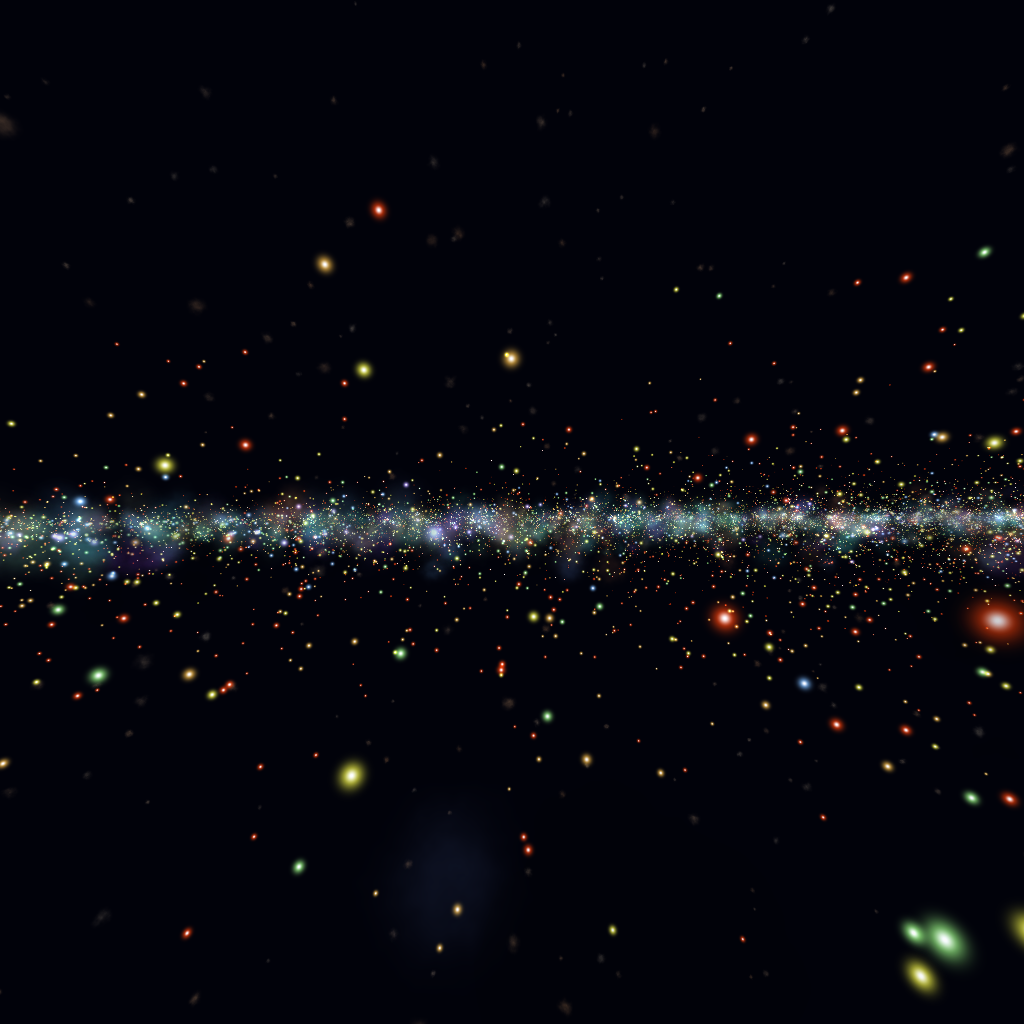
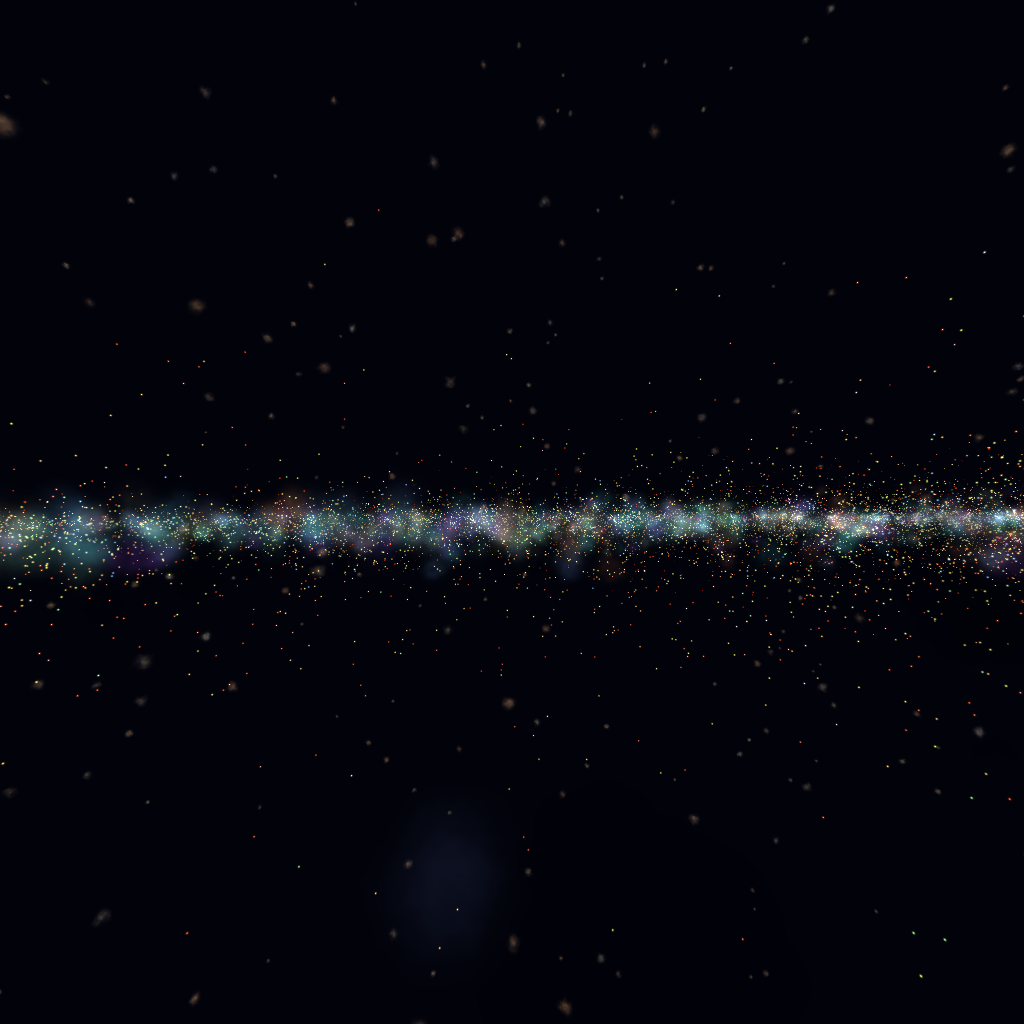
[feat] apparent-size clamp for stars; brighter distant galaxies
Tonio: "Let's make the galaxies a bit less faint, and yes the size clamp would
be nice if it stops nearby stars from being too big."

THE CLAMP. `maxStarApparentSize` caps a star's size as a fraction of its
DISTANCE — roughly its angular radius — applied in `facePoint`, where a
viewpoint actually exists. That placement is the point: apparent size is
meaningless without an observer, and at build time there isn't one.

It only bites on the near end. Stars already under the cap keep the size they
were given, so the distant field keeps exactly the density it was tuned to —
which is what `particleSize` could never do, since it moves both ends together
and that is why it never had a good value. Verified: worst apparent size lands
exactly on the cap, and only the largest scales moved (1.11 → 0.65).

Got it wrong once first, and the measurement caught it: the loop runs over BOTH
particle systems, so the first version clamped the nebulae too — shrinking the
distant galaxies that had just been enlarged and cutting the baked pole face
from 119k of PNG to 37k. Stars only now, with the reason in the source: a
star's world size is a stand-in for brightness, while a nebula's size is its
actual extent and means something.

GALAXIES: opacity 0.3–0.55 → 0.5–0.85. Still the faintest thing in the sky; the
eye no longer has to hunt for them.

Re-baked the default at 100k stars, particleSize 0.7, 1200 galaxies. No more
[…]

diff --git a/src/b3d-galaxy.ts b/src/b3d-galaxy.ts
@@ -320,6 +320,7 @@ tosi-b3d {
 | `spiralAngle` | `240` | Spiral arm sweep in degrees |
 | `thickness` | `0.06` | Disk thickness (fraction of radius) |
 | `particleSize` | `1.0` | Base star particle diameter |
+| `maxStarApparentSize` | `0.01` | Cap on a star's apparent size as a fraction of its distance. `0` = off. Only affects the near end |
 | `distantGalaxies` | `500` | External galaxies scattered isotropically outside the disc — what keeps the off-band sky from reading as empty |
 | `coreSize` | `0.12` | Central black hole radius. Disk radii are multiples of it, so this scales the whole assembly |
 
@@ -372,6 +373,16 @@ export class B3dGalaxy extends B3dChild {
     SKY and not to how dense this galaxy happens to be.
     */
     distantGalaxies: 500,
+    /*
+    Largest apparent size a star may have, as a fraction of its distance —
+    roughly its angular radius in radians. `0` disables the clamp.
+
+    Only bites on the NEAR end: stars already smaller than this keep the size
+    they were given, so the distant field is untouched. Applied when the
+    particles are aimed at a viewpoint (see `facePoint`), because apparent size
+    is meaningless without one.
+    */
+    maxStarApparentSize: 0.01,
   }
 
   declare seed: number
@@ -383,6 +394,7 @@ export class B3dGalaxy extends B3dChild {
   declare particleSize: number
   declare coreSize: number
   declare distantGalaxies: number
+  declare maxStarApparentSize: number
 
   owner: B3d | null = null
 
@@ -468,11 +480,55 @@ export class B3dGalaxy extends B3dChild {
         */
         sps.billboard = true
         sps.updateParticle = (p) => p
-        for (const p of sps.particles) p.rotationQuaternion = null
+        for (const p of sps.particles) {
+          p.rotationQuaternion = null
+          // And undo the apparent-size clamp — it belongs to one viewpoint.
+          const s0 = (p.props as { s0?: number } | undefined)?.s0
+          if (s0 != null) p.scale.x = p.scale.y = p.scale.z = s0
+        }
         sps.setParticles()
         continue
       }
       sps.billboard = false
+      /*
+      CLAMP APPARENT SIZE — the fix for "nearby stars are way too big".
+
+      Particles are sized in WORLD units, so a star's apparent size is
+      `scale / distance` and the nearest ones are dinner plates while the far
+      field is specks. Shrinking `particleSize` fixes the near end by thinning
+      the far end, which is why that knob has never had a good value: it moves
+      both ends together.
+
+      A cap on ANGULAR size moves only the end that is wrong. Anything whose
+      apparent size exceeds the limit is scaled down to it and everything else
+      is untouched, so the distant field keeps exactly the density it was tuned
+      to — which is the whole reason this is done HERE, where the viewpoint is
+      known, rather than at build time where it is not.
+
+      Originals are stashed so `facePoint(null)` can put them back.
+      */
+      /*
+      ⚠ STARS ONLY. This loop runs over BOTH particle systems, and the first
+      version clamped the nebulae with them — shrinking the distant galaxies
+      that had just been enlarged to fill the sky, and cutting the baked pole
+      face from 119k of PNG back to 37k. The clamp is about point sources whose
+      world size is a stand-in for brightness; a nebula's size is its actual
+      extent and means something.
+      */
+      const maxApparent = sps === this.starSps ? this.maxStarApparentSize : 0
+      if (maxApparent > 0) {
+        for (const p of sps.particles) {
+          const props = (p.props ??= {}) as { s0?: number }
+          props.s0 ??= p.scale.x
+          const dx = p.position.x - target.x
+          const dy = p.position.y - target.y
+          const dz = p.position.z - target.z
+          const d = Math.hypot(dx, dy, dz)
+          const cap = maxApparent * d
+          const want = props.s0 > cap ? cap : props.s0
+          p.scale.x = p.scale.y = p.scale.z = want
+        }
+      }
       /*
       TILT TOWARD THE POINT — do not pivot about the galactic plane.
 

diff --git a/src/galaxy-data.ts b/src/galaxy-data.ts
@@ -1135,7 +1135,10 @@ export function generateGalaxy(
       scale: prng.realRange(3, 9),
       rgb: distantGalaxyColor(prng.value()),
       type: 'emission',
-      opacity: prng.realRange(0.3, 0.55),
+      // Raised from 0.3–0.55: present rather than merely detectable. They are
+      // still the faintest thing in the sky — the point is that the eye finds
+      // them without hunting.
+      opacity: prng.realRange(0.5, 0.85),
     })
   }
 

diff --git a/TODO.md b/TODO.md
@@ -816,9 +816,11 @@ far-out, warm, small-scale fraction. That needs NO new rendering path — the
 emission-nebula branch already exists — and would tell us quickly whether the
 idea carries before anything gets its own shader.
 
-Related and still open: the magnitude-aware star size clamp. With distant
-galaxies doing the filling, particle size can come back DOWN, which is the other
-half of getting the near stars under control.
+~~Related and still open: the magnitude-aware star size clamp.~~ **DONE** —
+`maxStarApparentSize` caps a star's size as a FRACTION OF ITS DISTANCE, applied
+in `facePoint` where the viewpoint is known. It only bites on the near end, so
+the far field keeps the density it was tuned to; `particleSize` is back to 0.7
+with the galaxies doing the filling.
 
 [ ] ⚠ **THE BAKED SKY NEEDS ONE MESH, WHICH MEANS FORKING THE SKY SHADER.**
 Tonio: *"the skybox with two cubes NEVER worked. It's z-chasing at the
